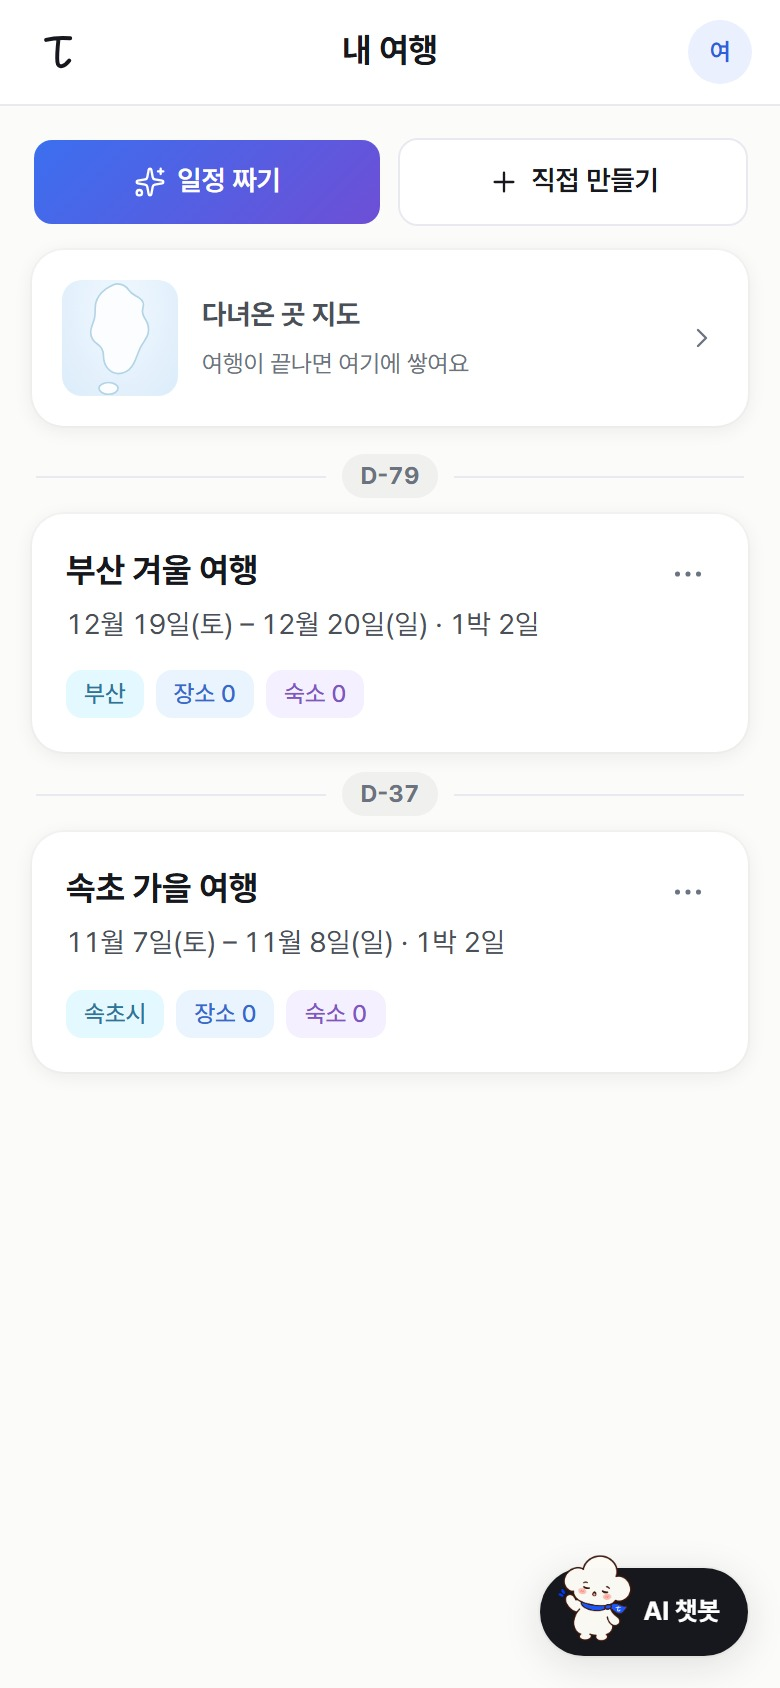
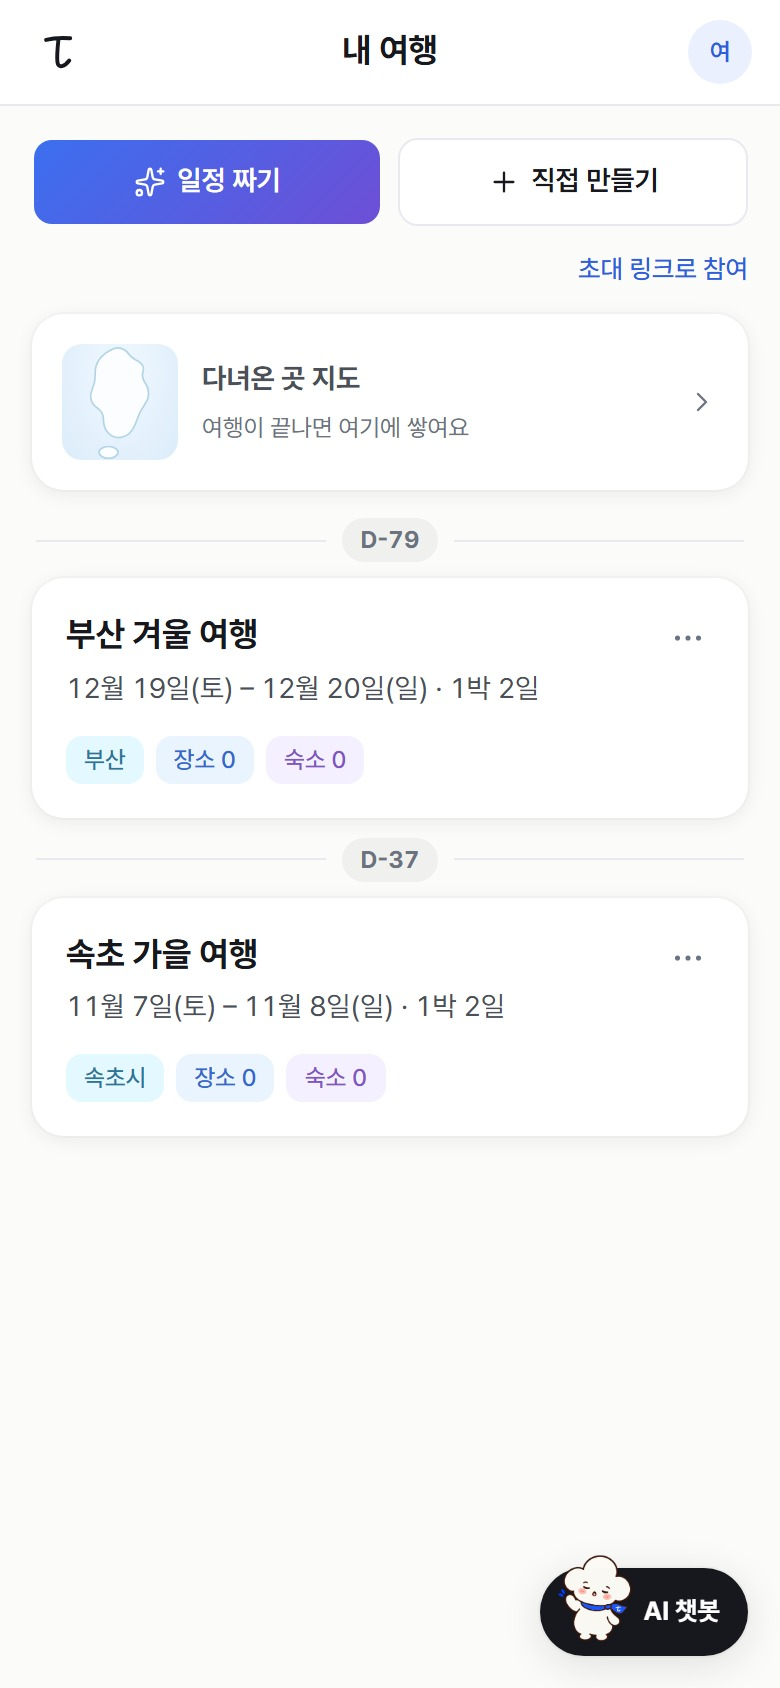
feat(app): 사용법 여행 목록 장에 초대 링크로 참여를 더한다

diff --git a/app/src/app/features/guide/model/guide.ts b/app/src/app/features/guide/model/guide.ts
@@ -24,7 +24,7 @@ export const GUIDE_SLIDES: readonly GuideSlide[] = [
     alt: '여행 목록 화면. 위에 일정 짜기와 직접 만들기 버튼, 아래에 여행 카드, 오른쪽 아래에 AI 챗봇 버튼이 있다',
     title: '여행 목록',
     description: '여행 계획부터 정산까지 이 앱 하나로 해요. 여행 목록에서 시작해요.',
-    spots: ['조건만 고르면 AI가 코스를 짜 줘요', '직접 여행을 만들 수도 있어요', '여행 카드를 누르면 상세로 가요', '궁금한 건 AI 챗봇에게 물어봐요', '여행이 끝나면 다녀온 곳이 지도에 쌓여요'],
+    spots: ['조건만 고르면 AI가 코스를 짜 줘요', '직접 여행을 만들 수도 있어요', '여행 카드를 누르면 상세로 가요', '궁금한 건 AI 챗봇에게 물어봐요', '여행이 끝나면 다녀온 곳이 지도에 쌓여요', '받은 초대 링크를 붙여 넣어 함께해요'],
   },
   {
     key: 'plan-input',

diff --git a/app/src/app/features/guide/model/guide-marks.ts b/app/src/app/features/guide/model/guide-marks.ts
@@ -25,7 +25,7 @@ export const GUIDE_MARKS: Readonly<Record<string, readonly GuideMark[]>> = {
     {
       "spot": 2,
       "x": 4.1,
-      "y": 30.45,
+      "y": 34.26,
       "w": 91.79,
       "h": 14.16,
       "r": 16
@@ -41,10 +41,18 @@ export const GUIDE_MARKS: Readonly<Record<string, readonly GuideMark[]>> = {
     {
       "spot": 4,
       "x": 4.1,
-      "y": 14.81,
+      "y": 18.62,
       "w": 91.79,
       "h": 10.43,
       "r": 16
+    },
+    {
+      "spot": 5,
+      "x": 74.1,
+      "y": 14.81,
+      "w": 21.79,
+      "h": 2.39,
+      "r": 0
     }
   ],
   "plan-input": [

diff --git a/app/e2e/guide.spec.ts b/app/e2e/guide.spec.ts
@@ -13,7 +13,7 @@ test('내 정보에서 사용법을 열면 화면 위에 설명 글이 보이고
   await expect(page.getByTestId('guide-step')).toHaveText('1 / 14');
   await expect(page.getByTestId('guide-title')).toHaveText('여행 목록');
   const first = page.getByTestId('guide-slide').first().getByTestId('guide-callout');
-  await expect(first).toHaveCount(5);
+  await expect(first).toHaveCount(6);
   await expect(first.first()).toContainText('AI가 코스를 짜 줘요');
   await expect(first.first()).toBeInViewport();
   await expectNoHorizontalScroll(page);

diff --git a/app/e2e/guide.capture.ts b/app/e2e/guide.capture.ts
@@ -106,6 +106,7 @@ test('사용법 캡처', async ({ page, context }) => {
   await mark('trips', 2, page.getByTestId('trip-list').locator('a, [role=link], article').first());
   await mark('trips', 3, page.getByTestId('open-chat'));
   await mark('trips', 4, page.getByTestId('go-stats'));
+  await mark('trips', 5, page.getByTestId('open-join-paste'));
   await shot(page, 'trips');
 
   // 일정 짜기 조건
